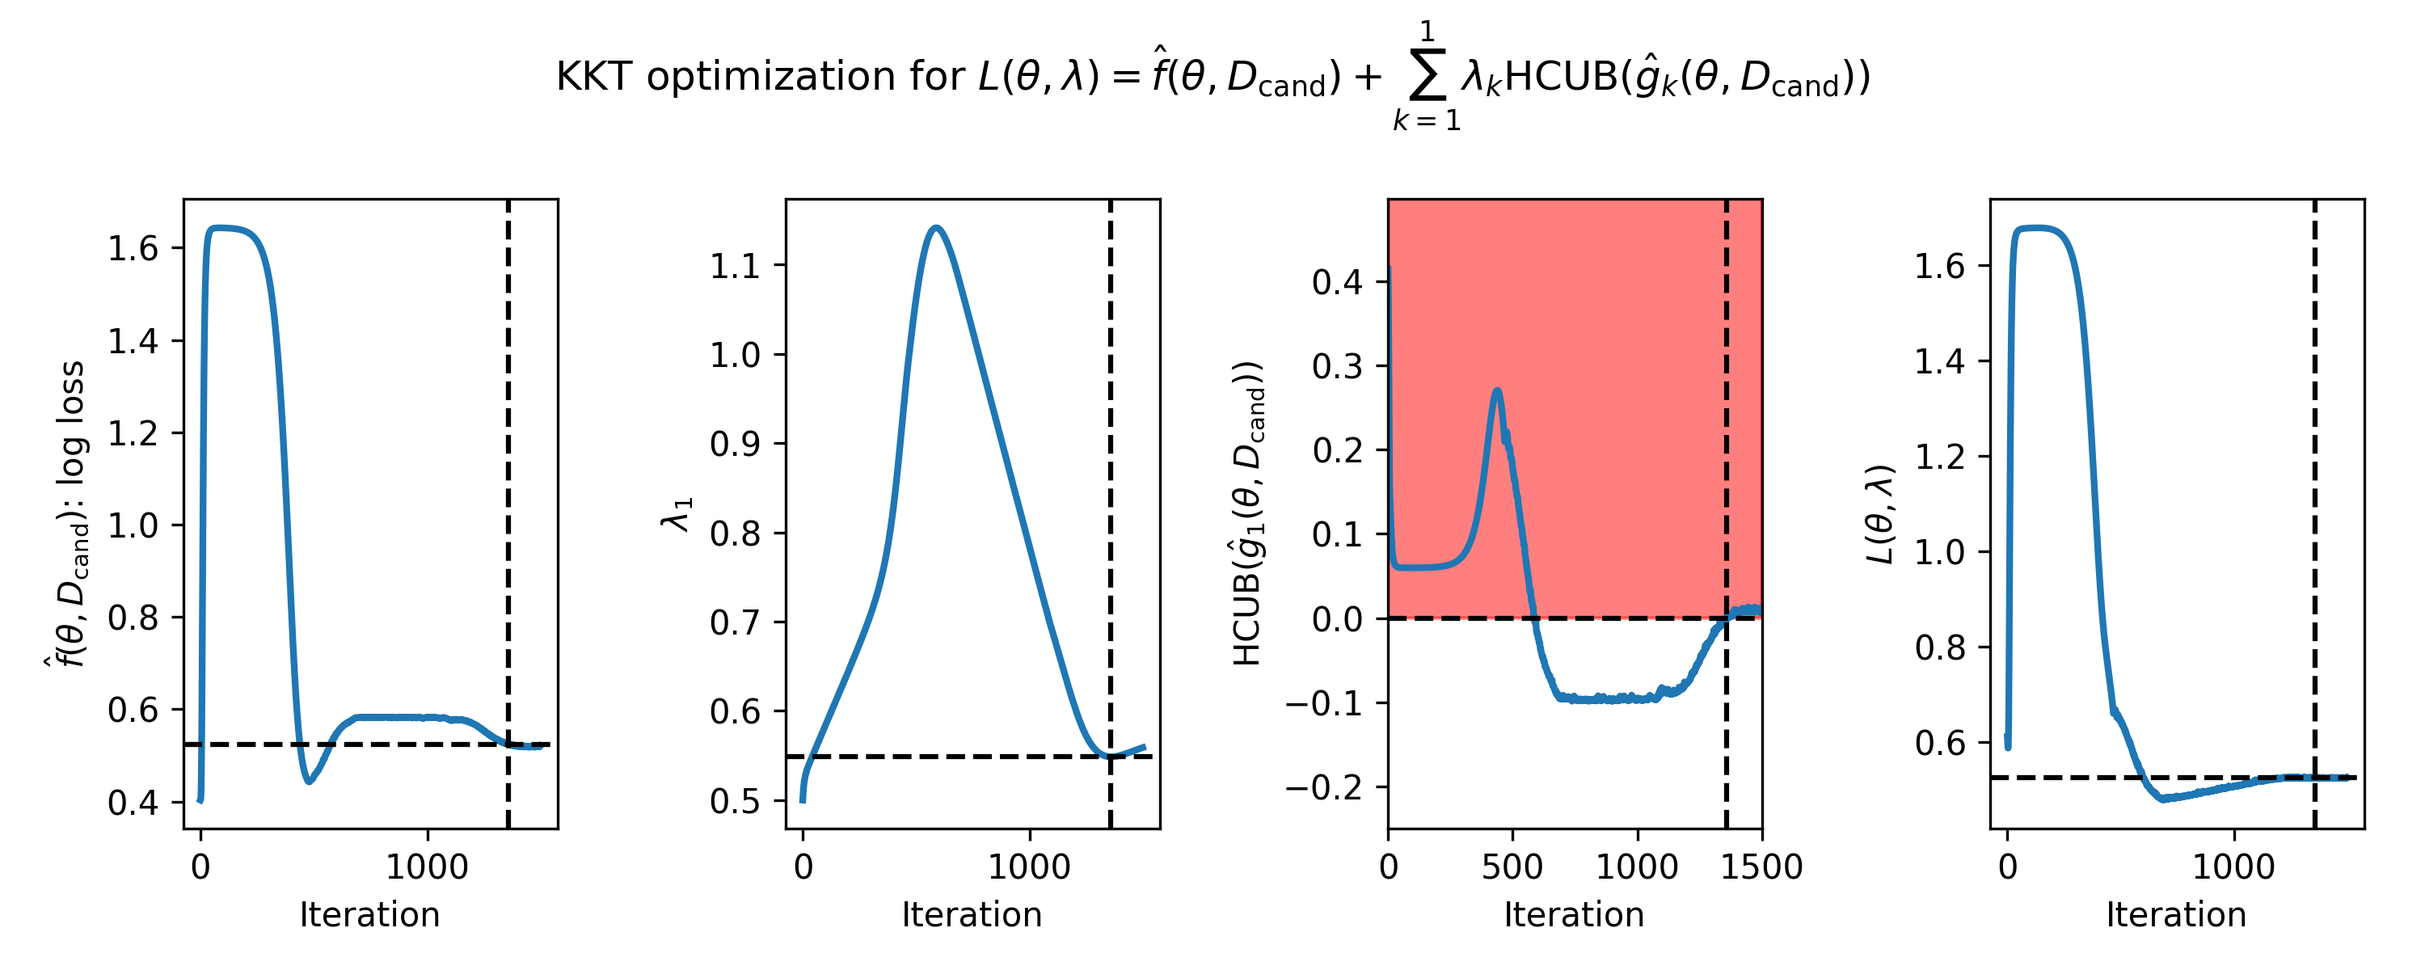
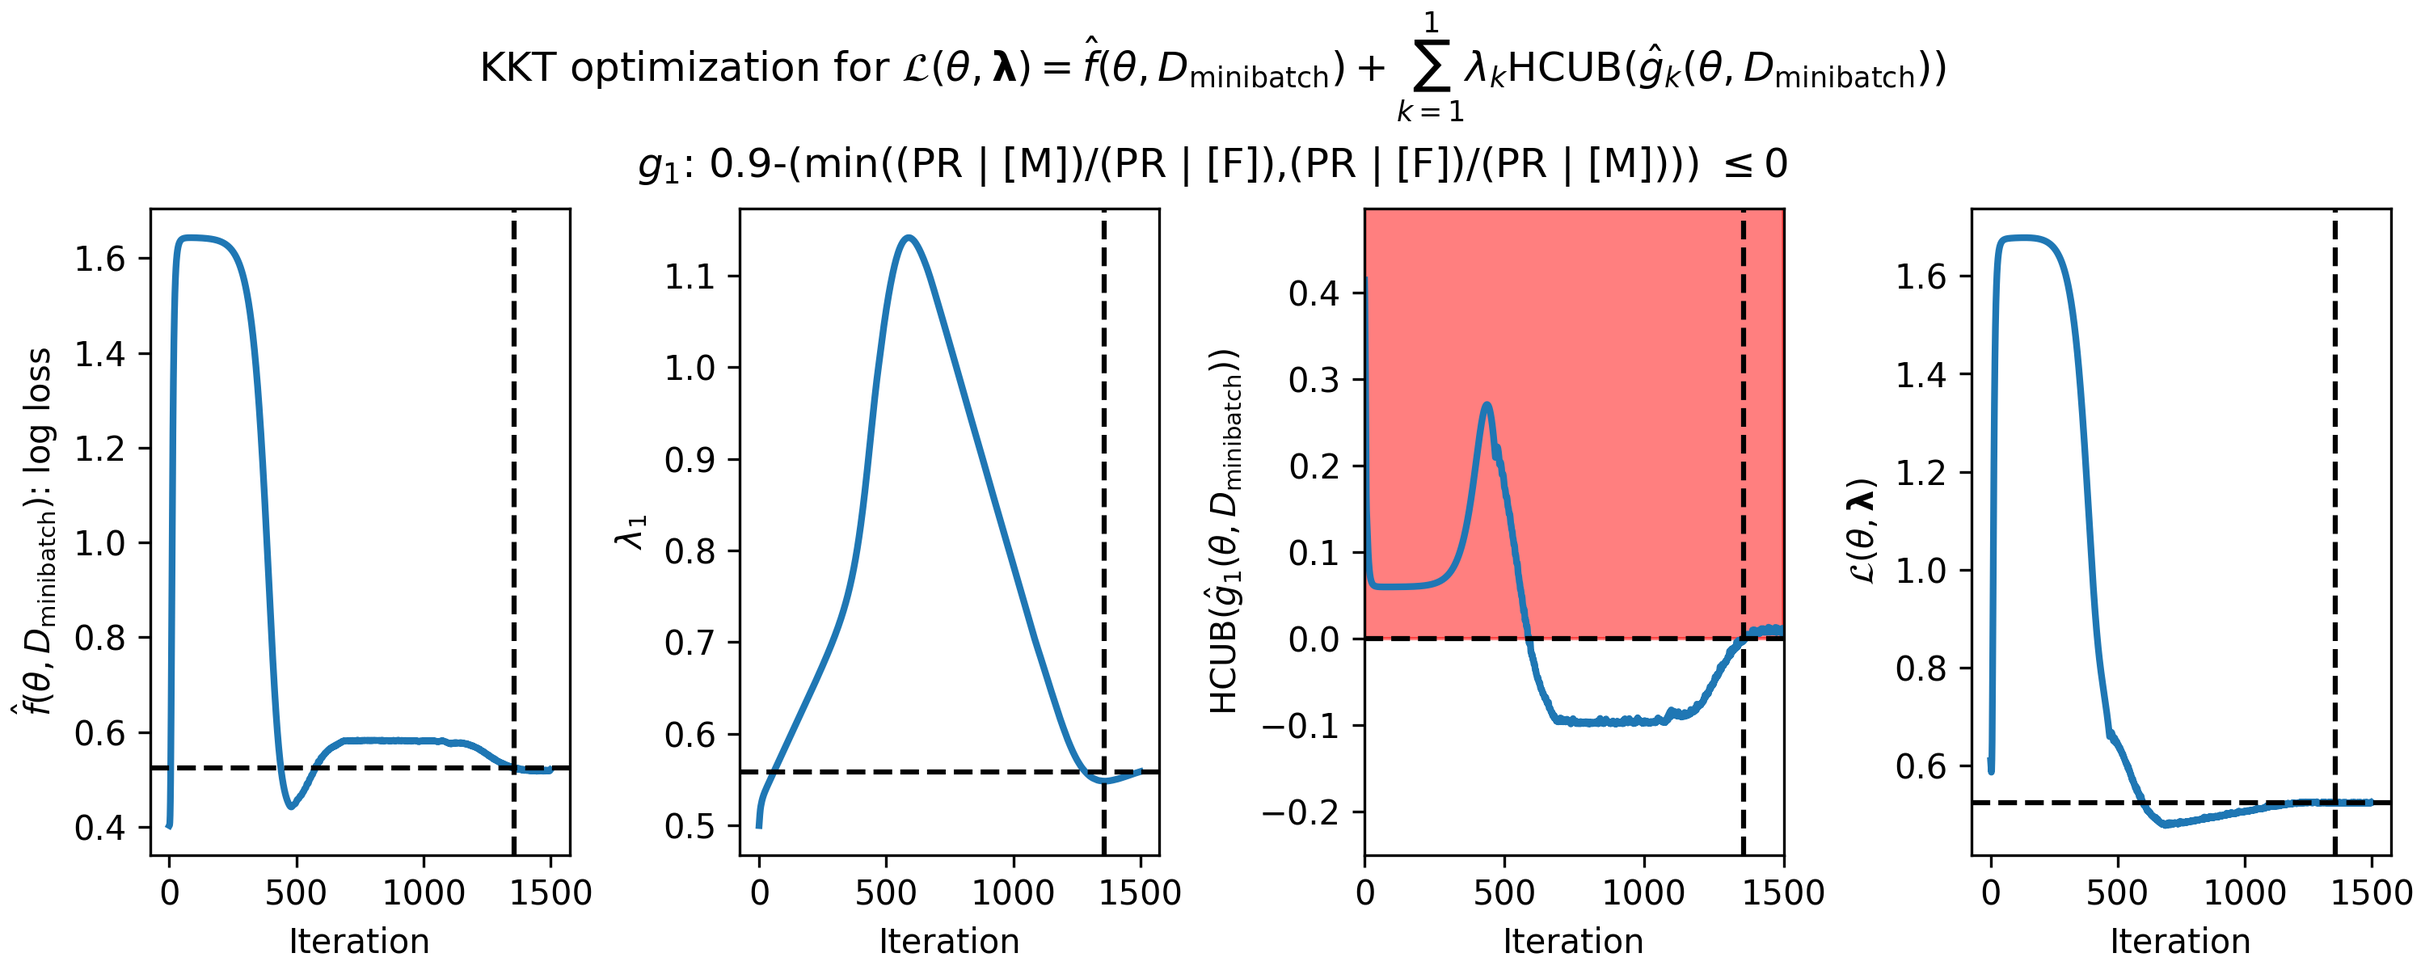
add explanation of gradient descent params to fair loans tutorial

diff --git a/_tutorials/simple_engine_tutorial.md b/_tutorials/simple_engine_tutorial.md
@@ -23,6 +23,7 @@ next_page_name: (D) Fair loans tutorial
     Note that due to the choice of confidence-bound method used in this tutorial (Student's $t$-test), the algorithms in this tutorial are technically quasi-Seldonian algorithms (QSAs). See <a href="{{ "/overview/#algorithm" | relative_url}}">the overview</a> for more details.
     </p>
 </div>
+
 <div class="container p-3 my-2 border" style="background-color: #f3f4fc;">
     <h3> An example Seldonian machine learning problem </h3>
     <p>
@@ -58,6 +59,10 @@ next_page_name: (D) Fair loans tutorial
     <p>
         Next, notice that here the MSE is <i>not</i> just the average squared error on the available training data. These constraints are much stronger: they are constraints on the MSE when the learned model is applied to <i>new data</i>. This is important because we don't just want machine learning models that appear to be safe or fair on the training data. We want machine learning models that are safe or fair when used to made decisions or predictions in the future.
     </p>
+</div>
+
+<div class="container p-3 my-2 border" style="background-color: #f3f4fc;">
+    <h3>Running the Seldonian Engine</h3>
     <p>
         To code this example using the engine, we need to follow these steps.
     </p>
@@ -123,7 +128,7 @@ if __name__ == "__main__":
 {% endhighlight %}
 </div>
 <p>
-If you copy the above code into a file called "example.py", run the example from the command line (once inside a virtual environment where you have pip-installed the engine) by doing:
+If you copy the above code into a file called "example.py", run the example from the command line (once inside a virtual environment where you have installed the Engine library) by doing:
 </p>
 
 <p>
@@ -146,40 +151,55 @@ Passed safety test
 True [0.16911355 0.1738146 ]
 {% endhighlight %}
     </p>
+    
     <p>
-    The output shows some of the default values that were hidden in the script. For example, we are running gradient descent in "batch" mode, i.e., putting all of our candidate data (400 data points) in at once and running for 200 epochs. These settings can be changed, but we won't cover that in this tutorial. Notice in the last few lines of the script that <a href="https://seldonian-toolkit.github.io/Engine/build/html/_autosummary/seldonian.seldonian_algorithm.SeldonianAlgorithm.html#seldonian.seldonian_algorithm.SeldonianAlgorithm.run">SA.run()</a> returns two values. <code class="highlight">passed_safety</code> is a Boolean indicating whether the candidate solution found during candidate selection passed the safety test. If <code class="highlight">passed_safety==False </code>, then <code class='highlight'> solution="NSF"</code>, i.e., "No Solution Found". If <code class="highlight">passed_safety==True</code>, then the solution is the array of model weights that cause the safety test to be passed. In this example, you should get <code class="highlight">passed_safety=True</code> and a candidate solution of something like: <code class="highlight">[0.16911355 0.1738146]</code>, although the exact numbers might differ slightly depending on your machine's random number generator.
+    The output shows some of the default values that were hidden in the script. For example, we are running gradient descent in "batch" mode, i.e., putting all of our candidate data (400 data points) in at once and running for 200 epochs. These settings can be changed, but we won't cover that in this tutorial.
+    </p>
+    
+    <p>
+    Notice in the last few lines of the script that <a href="https://seldonian-toolkit.github.io/Engine/build/html/_autosummary/seldonian.seldonian_algorithm.SeldonianAlgorithm.html#seldonian.seldonian_algorithm.SeldonianAlgorithm.run">SA.run()</a> returns two values. <code class="highlight">passed_safety</code> is a Boolean indicating whether the candidate solution found during candidate selection passed the safety test. If <code class="highlight">passed_safety==False </code>, then <code class='highlight'> solution="NSF"</code>, i.e., "No Solution Found". If <code class="highlight">passed_safety==True</code>, then the solution is the array of model weights that resulted in the safety test passing. In this example, you should get <code class="highlight">passed_safety=True</code> and a candidate solution of something like: <code class="highlight">[0.16911355 0.1738146]</code>, although the exact numbers might differ slightly depending on your machine's random number generator.
 </p>
-<p> Also notice that <code class="highlight">SA.run()</code> does not return what the value of the primary objective actually was on the safety test. Given that it passed the safety test, we know that it should be between $1.25$ and $2.0$ (and the actual MSE on future data will be in this range with high probability). The <code class="highlight">SA</code> object provides the introspection we need to extract this information through the <a href="https://seldonian-toolkit.github.io/Engine/build/html/_autosummary/seldonian.seldonian_algorithm.SeldonianAlgorithm.html#seldonian.seldonian_algorithm.SeldonianAlgorithm.evaluate_primary_objective">SA.evaluate_primary_objective()</a> method:
+</div>
+
+<div class="container p-3 my-2 border" style="background-color: #f3f4fc;">
+    <h3>Extracting important quantities</h3>
+<p> 
+    There are a few quantities of interest that are not automatically returned by <code class="highlight">SA.run()</code>. One such quantity is the value of the primary objective function (the MSE) evaluated on the safety data for the model weights returned by the algorithm, $\hat{f}(\theta_{\text{cand}},D_{\text{safety}})$. Given that the solution passed the safety test, we know that $\hat{f}(\theta,D_{\text{safety}})$ will likely be between $1.25$ and $2.0$ (and the actual MSE on future data will be in this range with high probability). The <code class="highlight">SA</code> object provides the introspection we need to extract this information through the <a href="https://seldonian-toolkit.github.io/Engine/build/html/_autosummary/seldonian.seldonian_algorithm.SeldonianAlgorithm.html#seldonian.seldonian_algorithm.SeldonianAlgorithm.evaluate_primary_objective">SA.evaluate_primary_objective()</a> method:
 
 {% highlight python %}
-# Check the value of the primary objective on the safety dataset
-st_primary_objective = SA.evaluate_primary_objective(theta=solution,
-branch='safety_test')
+st_primary_objective = SA.evaluate_primary_objective(
+    theta=solution,
+    branch='safety_test')
 print(st_primary_objective)
 {% endhighlight %}
 
-This should print a value around $1.61$, which satisfies the behavioral constraints. 
+This should print a value around $1.61$, which satisfies the behavioral constraints. We can use the same method to check the value of the primary objective function evaluated on the candidate data at this solution:
+</p>
+{% highlight python %}
+cs_primary_objective = SA.evaluate_primary_objective(
+    theta=solution,
+    branch='candidate_selection')
+print(cs_primary_objective)
+{% endhighlight %}
+<p> 
+    This should print a value of around $1.56$. While we know in this case that the safety test passed, i.e., the high-confidence upper bounds on the constraints were less than or equal to zero, we might be interested in what the actual values of those upper bounds were during the safety test. We can use the <a href="https://seldonian-toolkit.github.io/Engine/build/html/_autosummary/seldonian.seldonian_algorithm.SeldonianAlgorithm.html#seldonian.seldonian_algorithm.SeldonianAlgorithm.get_st_upper_bounds">SA.get_st_upper_bounds()</a> method for this.
+</p>
+{% highlight python %}
+>> print(SA.get_st_upper_bounds())
+{'1.25-(Mean_Squared_Error)': -0.2448558988476761, 'Mean_Squared_Error-(2.0)': -0.2710930638194431}
+{% endhighlight python %}
+
+<p>
+This returns a dictionary where the keys are the constraint strings and the values are the upper bounds. The values you see should be close to the values above, but may differ slightly. Here are some things to note about this dictionary:
+<ul>
+    <li>Both upper bounds are less than or equal to zero, as expected. </li>
+    <li>The keys of this dictionary show the constraint strings in a slightly different form than how we originally defined them. They are written in the form: $g_i \leq 0$, where $g_i$ here represents the $i$th constraint function. For example, $1.25-(\text{Mean_Squared_Error})\leq0$ is mathematically equivalent to $\text{Mean_Squared_Error} \geq 1.25$, the form we used to specify our second constraint at the beginning of the tutorial. This rearrangement is done for consistency in interpreting the upper bounds.</li>
+    <li>Because this information is returned in a dictionary, the order of the constraints is not guaranteed to be the same as the order in which we specified our constraints originally.</li>
+</ul>
 </p>
 
 <p>
-We might also wonder what the values of the primary objective and the behavioral constraint function were during the candidate selection process. All of this information and more is stored in a dictionary that is retrievable via the <a href="https://seldonian-toolkit.github.io/Engine/build/html/_autosummary/seldonian.seldonian_algorithm.SeldonianAlgorithm.html#seldonian.seldonian_algorithm.SeldonianAlgorithm.get_cs_result">SA.get_cs_result()</a> method:
-{% highlight python %}
-cs_dict = SA.get_cs_result() # returns a dictionary with a lot of quantities evaluated at each step of gradient descent
-print(cs_dict.keys())
-{% endhighlight %}
-This will print all of the keys of this dictionary:
-{% highlight python %}
-['candidate_solution', 'best_index', 'best_g', 'best_f', 'found_feasible_solution', 'theta_vals', 'f_vals', 'g_vals', 'lamb_vals', 'L_vals']
-{% endhighlight %}
-So, to get the primary objective values, we would do:
-{% highlight python %}
-print(cs_dict['f_vals'])
-{% endhighlight %}
-and to get the values of the constraint functions, $g_1$ and $g_2$, we would do:
-{% highlight python %}
-print(cs_dict['g_vals'])
-{% endhighlight %}
-Even if candidate selection returns "NSF", the <code class="highlight">cs_dict</code> stores these values.
+More introspection to the <code class="highlight">SA</code> object is possible, but it is beyond the scope of this tutorial. 
 </p>
 </div> 
 <div class="container p-3 my-2 border" style="background-color: #f3f4fc;">
@@ -187,7 +207,8 @@ Even if candidate selection returns "NSF", the <code class="highlight">cs_dict</
     <p>In this tutorial, we demonstrated how to:</p>
     <ul>
         <li>Use the engine to set up a Seldonian machine learning algorithm.</li>
-        <li>Run the algorithm using the engine and understand its outputs.</li>
+        <li>Run the algorithm using the engine.</li>
+        <li> Extract and understand important quantities generated by the algorithm.</li>
     </ul>
 <p>
 </p>

diff --git a/_tutorials/fair_loans_tutorial.md b/_tutorials/fair_loans_tutorial.md
@@ -289,10 +289,55 @@ First, the output indicates that we have 1500 epochs and 1 batch, consistent wit
 Wrote logs/candidate_selection_log0.p with candidate 
 {% endhighlight python %}
 This is a pickle file containing the values of various parameters during each step of the gradient descent algorithm that was run during candidate selection. The path displayed here will differ and instead point to somewhere on your computer. 
+</p>
 
-<h5 class='my-2'>Visualizing gradient descent parameters</h5>
+<h5 class='my-2'>Understanding and visualizing gradient descent parameters</h5>
+<p>
+The pickle file mentioned in the previous section contains a dictionary with the values of many of the parameters relevant to gradient descent. This dictionary is also retrievable via the <a href="https://seldonian-toolkit.github.io/Engine/build/html/_autosummary/seldonian.seldonian_algorithm.SeldonianAlgorithm.html#seldonian.seldonian_algorithm.SeldonianAlgorithm.get_cs_result">SA.get_cs_result()</a> method, e.g.,
+{% highlight python %}
+cs_dict = SA.get_cs_result() # returns a dictionary with a lot of quantities evaluated at each step of gradient descent
+{% endhighlight %}
+This will print all of the keys of this dictionary:
+{% highlight python %}
+>> print(list(cs_dict.keys()))
+['candidate_solution', 'best_index', 'best_f', 'best_g', 'best_lamb', 'best_L', 'found_feasible_solution', 'theta_vals', 'f_vals', 'lamb_vals', 'g_vals', 'L_vals', 'constraint_strs', 'batch_size', 'n_epochs']
+{% endhighlight %}
+Here we explain what each of these keys represents:
+<ul>
+    <li><code class="highlight">candidate_solution</code> contains the optimal weight vector found during candidate selection. </li>
+    <li><code class="highlight">best_index</code> is the iteration of gradient descent where the optimum was found. </li>
+    <li><code class="highlight">best_f</code> is the value of the primary objective function at the optimal gradient descent step, <code class="highlight">best_index</code>. </li>
+    <li><code class="highlight">best_g</code> is a vector containing the values of the upper bounds on the constraint functions at the optimal gradient descent step, <code class="highlight">best_index</code>. </li>
+    <li><code class="highlight">best_lamb</code> is a vector containing the values of the Lagrange multipliers at the optimal gradient descent step, <code class="highlight">best_index</code>.</li>
+    <li><code class="highlight">best_L</code> is the value of the Lagrangian at the optimal gradient descent step, <code class="highlight">best_index</code>.</li>
+    <li><code class="highlight">found_feasible_solution</code> is a Boolean indicating whether a solution was found that is predicted to pass the safety test. </li>
+    <li><code class="highlight">theta_vals</code> is an array containing the model weights $\theta_j$ at each $j$th iteration of gradient descent. </li>
+    <li><code class="highlight">f_vals</code> is an array containing the value of the primary objective function $f_j$ at each $j$th iteration of gradient descent. </li>
+    <li><code class="highlight">lamb_vals</code> is an array containing the vector of each $i$th Lagrange multiplier $\lambda_{i,j}$ at each $j$th iteration of gradient descent. </li>
+    <li><code class="highlight">g_vals</code> is an array containing the vector of each $i$th constraint function upper bound $\text{HCUB}(g_{i,j})$ at each $j$th iteration of gradient descent. </li>
+    <li><code class="highlight">L_vals</code> is an array containing the values of the Lagrangian $L_{j}$ at each $j$th iteration of gradient descent. </li>
+    <li><code class="highlight">constraint_strs</code> is a list of the constraint strings. </li>
+    <li><code class="highlight">batch_size</code> is the batch size used in gradient descent. </li>
+    <li><code class="highlight">n_epochs</code> is the number of epochs used in gradient descent. </li>
+</ul>  
 
-As part of the engine library, we provide a plotting function that is designed to help visualize the contents of this file. The following script will run that function on the file. Note that you will have to change the path for <code class='highlight'>cs_file</code> to point it to the file that was created on your machine. 
+So, to get the primary objective values at each iteration of gradient descent, one would do:
+
+{% highlight python %}
+print(cs_dict['f_vals'])
+{% endhighlight %}
+
+Similarly, to get the values of the upper bounds on the constraint functions, $\text{HCUB}(g_1)$ and $\text{HCUB}(g_2)$, at each iteration of gradient descent, one would do:
+
+{% highlight python %}
+print(cs_dict['g_vals'])
+{% endhighlight %}
+
+If candidate selection returns "NSF", the <code class="highlight">cs_dict</code> will still store these values. Note that this particular <code class="highlight">cs_dict</code> is unique to gradient descent. Other optimization techniques will return different structures of the <code class="highlight">cs_dict</code>.
+</p>
+
+<p>
+As part of the Engine library, we provide a plotting function that is designed to help visualize the contents of this dictionary (for gradient descent only). The following script will run that function on the file. Note that you will have to change the path for <code class='highlight'>cs_file</code> to point it to the file that was created on your machine. 
 </p>
 <div>
 
@@ -316,16 +361,16 @@ if __name__ == '__main__':
 
 </div>
 
-Running this script will generate a figure like this:
+Running this script will generate a figure like below, with one row per constraint.
 
 <div align="center">
     <figure>
         <img src="{{ "/assets/img/loan_cs.png" | relative_url}}" class="img-fluid mt-4" style="width: 75%"  alt="Candidate selection"> 
-        <figcaption align="left"> <b>Figure 1</b> - How the parameters of the Lagrangian optimization problem changed during gradient descent on the loan fairness problem. The panels show the values of the (left) primary objective function $\hat{f}(\theta,D_\mathrm{cand})$ (in this case the log loss), (middle left) single Lagrange multiplier, ${\lambda_1}$, (middle right) predicted high-confidence upper bound (HCUB) on the disparate impact constraint function, $\hat{g}_1(\theta,D_\mathrm{cand})$, and (right) the Lagrangian $\mathcal{L}(\theta,\lambda)$. The black dotted lines in each panel indicate where the optimum was found. The optimum is defined as the feasible solution with the lowest value of the primary objective. A feasible solution is one where $\mathrm{HCUB}(\hat{g}_i(\theta,D_\mathrm{cand})) \leq 0, i \in \{1 ... n\}$. In this example, we only have one constraint, so $i \in \{1\}$, and the infeasible region is shown in red in the middle right plot. </figcaption>
+        <figcaption align="left"> <b>Figure 1</b> - How the parameters of the <a href="{{ "/tutorials/alg_details_tutorial/#kkt" | relative_url}}">KKT optimization problem</a> changed during gradient descent on the loan fairness problem. (Left) primary objective function $\hat{f}(\theta,D_\mathrm{minibatch})$ (in this case the log loss), (middle left) single Lagrange multiplier, ${\lambda_1}$, (middle right) predicted high-confidence upper bound (HCUB) on the disparate impact constraint function, $\hat{g}_1(\theta,D_\mathrm{minibatch})$, and (right) the Lagrangian $\mathcal{L}(\theta,\boldsymbol{\lambda})$. $\boldsymbol{\lambda}$ is in bold here because it is a vector in the general case where there are $n$ constraints. The black dotted lines in each panel indicate where the optimum was found. The optimum is defined as the feasible solution with the lowest value of the primary objective. A feasible solution is one where $\mathrm{HCUB}(\hat{g}_i(\theta,D_\mathrm{cand})) \leq 0, i \in \{1 ... n\}$. In this example, we only have one constraint, and the infeasible region is shown in red in the middle right plot. </figcaption>
     </figure>
 </div>
 <p>
-Visualizing candidate selection can help you tune your optimization hyperparameters in your spec object. For example, if $\theta$ is never escaping the infeasible region and your Seldonian algorithm is returning NSF (i.e., "No Solution Found"), then you may be able to obtain a solution by running gradient descent (with the Adam optimizer) for more iterations or with different learning rates or velocity values (the beta terms in Adam). If you are still seeing NSF after hyperparameter exploration, you may not have enough data or your constraints may be too strict. Running a Seldonian Experiment can help determine why you are not able to obtain a solution.
+Visualizing candidate selection can help you tune the optimization hyperparameters in your spec object. For example, if $\theta$ is never escaping the infeasible region and your Seldonian algorithm is returning NSF (i.e., "No Solution Found"), then you may be able to obtain a solution by running gradient descent (with the Adam optimizer) for more iterations or with different learning rates or velocity values (the beta terms in Adam). If you are still seeing NSF after hyperparameter exploration, you may not have enough data or your constraints may be too strict. Running a Seldonian Experiment can help determine why you are not able to obtain a solution.
 </p>
 </div>
 
